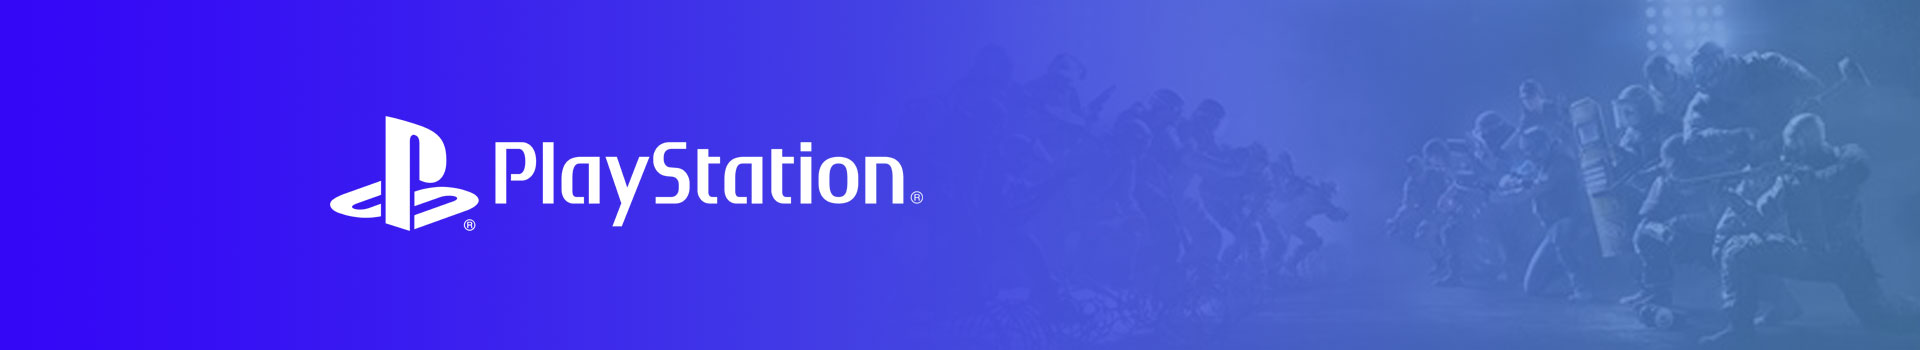
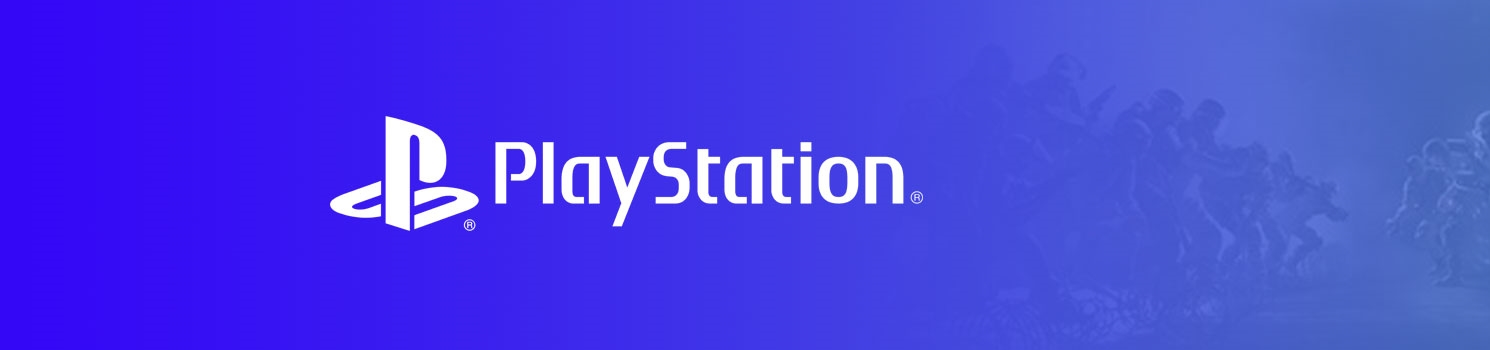
Fínpússun, bætti "/" á öll urls

diff --git a/app/templates/CC/index.html b/app/templates/CC/index.html
@@ -10,13 +10,13 @@
             </ol>
             <div class="carousel-inner">
                 <div class="carousel-item active">
-                    <img src="{% static 'images/frontPageBanner.jpg' %}" class="d-block w-100" alt="Front page bannner first slide">
+                    <img src="{% static 'images/frontPageBanner.jpg' %}" class="d-block w-100 fp-banner" alt="Front page bannner first slide">
                 </div>
                 <div class="carousel-item">
-                    <img src="{% static 'images/frontPageBanner.jpg' %}" class="d-block w-100" alt="Front page bannner second slide">
+                    <img src="{% static 'images/atari_banner.jpg' %}" class="d-block w-100 fp-banner" alt="Front page bannner second slide">
                 </div>
                 <div class="carousel-item">
-                    <img src="{% static 'images/frontPageBanner.jpg' %}" class="d-block w-100" alt="Front page bannner third slide">
+                    <img src="{% static 'images/xbox.jpg' %}" class="d-block w-100 fp-banner" alt="Front page bannner third slide">
                 </div>
             </div>
             <a class="carousel-control-prev carousel-control-btn" href="#frontPageBanner" role="button" data-slide="prev">

diff --git a/app/templates/staff/view_all_products.html b/app/templates/staff/view_all_products.html
@@ -15,7 +15,7 @@
         {% for product in products %}
             <div class="row border-bottom border-dark">
                 <img class="col-2 staff_product_img" src="{{ product.image.first.relative_path }}"/>
-                <p class="col-4 border-left border-dark mb-0 py-3">{{ product.name }}</p>
+                <p class="col-4 border-left border-dark mb-0 py-3 text-truncate text-nowrap">{{ product.name }}</p>
                 <p class="col-3 border-left border-dark mb-0 py-3">{{ product.price }} kr</p>
                 <p class="col-2 border-left border-dark mb-0 py-3">{{ product.quantity }}</p>
                 <a class="col-1 border-left border-dark text-dark" href="{%url 'update_product' product.id %}"><span class="fas fa-pencil-alt my-4 mx-md-4"></span></a>

diff --git a/app/static/js/productScript.js b/app/static/js/productScript.js
@@ -21,16 +21,14 @@ $(document).ready(function(){
         // Stop acting like a button
         e.preventDefault();
         let quantity = parseInt($('#quantity').val());
-        // If is not undefined
 
-        // Increment
-        if(quantity>0){
+        if(quantity>1){
         $('#quantity').val(quantity - 1);
         }
     });
      $('')
 
-    $('#addCart').click(function(e){
+    $('#addCart').click(function(e){ //makes the add to cart button add the right product to the cart with right quantity
         let quantity = $('#quantity').val();
         let custom = $(this).attr("custom-link") + "&quantity=" + quantity
         $('#addCart').attr("href", custom);

diff --git a/app/templates/product_list/prod_list.html b/app/templates/product_list/prod_list.html
@@ -33,7 +33,7 @@
                     {% for product in prod_list %}
                         <a class="col-md-4 col-lg-3 col-6 rounded text-center" href="/vara/{{ product.URL_keyword }}">
                             <img alt="product photo" class="img-responsive my-3" src="{{ product.image.first.relative_path }}"/>
-                            <h3>{{ product.name }}</h3>
+                            <h3 class="text-truncate text-nowrap">{{ product.name }}</h3>
                             <h4 class="mb-3">{{ product.total }} kr</h4>
                         </a>
                     {% endfor %}

diff --git a/app/templates/product_list/sidebar.html b/app/templates/product_list/sidebar.html
@@ -1,5 +1,5 @@
 <div class="container-fluid text-left border rounded yellow-background">
-    <h4 class="pt-2"><u>Filter</u></h4>
+    <h4 class="pt-2"><u>{{ filter }}</u></h4>
     <div id="accordion" class="pb-3">
         {% with categories=categories %}
             {% include 'product_list/child.html' %}

diff --git a/app/static/css/main.css b/app/static/css/main.css
@@ -295,3 +295,8 @@ input[type=submit]:hover  {
 #addCart{
     cursor: pointer !important;
 }
+
+.fp-banner{
+    height: 350px;
+    width:1490px;
+}

diff --git a/app/product_list/views.py b/app/product_list/views.py
@@ -6,17 +6,17 @@ from user.models import SearchHistory
 
 def search(request):
     org_query = request.GET.get("leit")
+    if org_query is None:
+        return redirect("/")
     query = org_query.split(" ")
     all_products = Product.objects.all()
-    prod_list = list(all_products.filter(name__icontains=org_query))
+    prod_list = list(all_products.filter(name__icontains=org_query, status=True))
     for word in query:
-        result = list(all_products.filter(name__icontains=word)) +\
-                 list(all_products.filter(description__icontains=word))
-
+        result = list(all_products.filter(name__icontains=word, status=True)) + \
+                 list(all_products.filter(description__icontains=word, status=True))
         for product in result:
             if product not in prod_list:
                 prod_list.append(product)
-
     if request.user.is_authenticated:
         s = SearchHistory(user=request.user, search_query=org_query)
         s.save()
@@ -31,14 +31,14 @@ def search(request):
                       "search": True,
                       "query": "'{}'".format(org_query),
                       "categories": category_sidebar,
-                      "sidebars": True
+                      "sidebars": True,
+                      "filter": "Flokkar"
                   })
 
 
 def _get_parent(category, url_string=""):
     if category is None:
         return url_string
-
     return _get_parent(category.parent, url_string) + "/" + category.URL_keyword
 
 
@@ -51,6 +51,9 @@ def _does_cat_exist(category):
 
 
 def _is_complete_url(cat, url):
+    # gets a category and a list of urls
+    # and recursively checks if they are the same
+    # cat acts like a singly linked list, a category only knows its parent (node knows next)
     if not url and cat is None:
         return True
     if not url:
@@ -62,27 +65,32 @@ def _is_complete_url(cat, url):
     return False
 
 
+#_get_sub_categories is a cool function
+# because categories sort of act like a singly linked list( a category only knows its parent)
+# I have to recursively create a list of dictionaries, which has category as key and lists of dictionaries as values
+# [{category_obj: [{sub_category_obj: [{sub_sub_category_obj: []}]}]}]
+# It's a neat way of creating the filter sidebar by using the categories as filters
 def _get_sub_categories(category, all):
     cat_list = list(all.filter(parent=category))
     if not cat_list:
         return []
     temp_list = []
     for sub in cat_list:
-        temp_list.append({sub: _get_sub_categories(sub, all)})
+        if sub.status:
+            temp_list.append({sub: _get_sub_categories(sub, all)})
     return temp_list
 
 
-def get_category_sidebar(all):  # used in search
+def get_category_sidebar(all):  # used in search, serves categories as a sidebar
+    # with each category that has children having a "+" which activates a dropdown
     cat1 = all.get(URL_keyword="leikjatolvur")
     cat2 = all.get(URL_keyword="leikir")
     cat3 = all.get(URL_keyword="aukahlutir")
-
     return {
         cat1: _get_sub_categories(cat1, all),
         cat2: _get_sub_categories(cat2, all),
         cat3: _get_sub_categories(cat3, all)
     }
-
 
 
 def category(request, hierarchy):  # the "hierarchy" parameter needs to be there even though it is not used.
@@ -92,16 +100,17 @@ def category(request, hierarchy):  # the "hierarchy" parameter needs to be there
 
     last_url = categories[-1]
     all = Category.objects.all()
-    cat = all.get(URL_keyword=last_url)
+    try:
+        cat = all.get(URL_keyword=last_url)
+    except:
+        raise Http404
 
     if not cat.status:  # if the category is disabled
-        return render(request, "404.html")
+        raise Http404
 
     if _is_complete_url(cat, categories):
-
         elder = get_object_or_404(Category, URL_keyword=categories[0])
         elder_subs = {}
-
         for sub_cat in _get_sub_categories(elder, all):
             for sub_cat_name, children in sub_cat.items():
                 elder_subs[sub_cat_name] = children
@@ -110,6 +119,8 @@ def category(request, hierarchy):  # the "hierarchy" parameter needs to be there
         order_no = request.GET.get("rodun")
         if order_no:
             order = ""
+            # this is for getting the order by correct
+            # "name" orders by name ascending, "-name" orders by name descending
             if order_no == "1":
                 order = "name"
             elif order_no == "2":
@@ -118,11 +129,9 @@ def category(request, hierarchy):  # the "hierarchy" parameter needs to be there
                 order = "-total"
             elif order_no == "4":
                 order = "total"
-
-            the_list = list(Product.objects.filter(category=cat).order_by(order))
+            the_list = list(Product.objects.filter(category=cat, status=True).order_by(order))
         else:
-            the_list = list(Product.objects.filter(category=cat).order_by("total"))
-
+            the_list = list(Product.objects.filter(category=cat, status=True).order_by("total"))
         return render(request,
                       "product_list/prod_list.html",
                       context={
@@ -130,7 +139,8 @@ def category(request, hierarchy):  # the "hierarchy" parameter needs to be there
                           "prod_list": the_list,
                           "categories": elder_subs,
                           "parent": "",
-                          "sidebars": True
+                          "sidebars": True,
+                          "filter": "Filter"
                       })
     else:
         if _does_cat_exist(last_url):

diff --git a/app/staff/urls.py b/app/staff/urls.py
@@ -4,20 +4,20 @@ from . import views
 
 urlpatterns = [
     path("", views.login_staff_view, name="login_staff"),
-    path("logout", LogoutView.as_view(next_page="login_staff"), name="logout_staff"),
-    path("create-product", views.create_product, name="create_product"),
-    path("delete-product/<str:slug>", views.delete_product, name="delete_product"),
-    path("products", views.products, name="view_all_products"),
-    path("update-product/<str:slug>", views.update_product, name="update_product"),
-    path("categories", views.categories, name="view_all_categories"),
-    path("create-category", views.create_category, name="create_category"),
-    path("update-category/<str:slug>", views.update_category, name="update_category"),
-    path("view-staff", views.view_staff, name="view_all_staff"),
-    path("register-staff", views.register_staff, name="register_staff"),
-    path("update-staff/<str:slug>", views.update_staff, name="update_staff"),
-    path("view-customers", views.view_customers, name="view_all_customers"),
-    path("register-customers", views.register_customer, name="register_customer"),
-    path("update-customer/<str:slug>", views.update_customer, name="update_customer"),
-    path("view-orders", views.view_all_orders, name="view_all_orders"),
-    path("view-order/<str:slug>", views.view_order, name="view_order")
+    path("logout/", LogoutView.as_view(next_page="login_staff"), name="logout_staff"),
+    path("create-product/", views.create_product, name="create_product"),
+    path("delete-product/<str:slug>/", views.delete_product, name="delete_product"),
+    path("products/", views.products, name="view_all_products"),
+    path("update-product/<str:slug>/", views.update_product, name="update_product"),
+    path("categories/", views.categories, name="view_all_categories"),
+    path("create-category/", views.create_category, name="create_category"),
+    path("update-category/<str:slug>/", views.update_category, name="update_category"),
+    path("view-staff/", views.view_staff, name="view_all_staff"),
+    path("register-staff/", views.register_staff, name="register_staff"),
+    path("update-staff/<str:slug>/", views.update_staff, name="update_staff"),
+    path("view-customers/", views.view_customers, name="view_all_customers"),
+    path("register-customers/", views.register_customer, name="register_customer"),
+    path("update-customer/<str:slug>/", views.update_customer, name="update_customer"),
+    path("view-orders/", views.view_all_orders, name="view_all_orders"),
+    path("view-order/<str:slug>/", views.view_order, name="view_order")
 ]

diff --git a/app/CC/models.py b/app/CC/models.py
@@ -2,7 +2,10 @@ from django.db import models
 from user.models import profile_info
 
 
-class URL:
+class URL:  # this class exists to make sure that all category and product urls are unique
+    # example: if a product is created with the name "Playstation-game" and a product already exists with that name
+    # the product will get the URL_keyword/slug playstation-game-1, if that already exists then it will get "playstation-game-2"
+    # there also cannot be a category and product with the same slug
     def __init__(self):
         self.replace_arr = [('á', 'a'), ('ð', 'd'), ('ö', 'o'), ('ó', 'o'), ('í', 'i'), ('ý', 'y'), ('ó', 'o'),
                             ('æ', 'ae'), ('ø', 'o'), ('ú', 'u'), ('þ', 'th'), ('é', 'e')]
@@ -126,10 +129,10 @@ class Product(models.Model, URL):
     def __str__(self):
         return self.name
 
-    def initialize(self):
+    def initialize(self):  # checks if the url is unique, if not, fix it
         self.check_url()
-        self.calculate_total()
-        self.save()
+        self.calculate_total()  # calculates the total from price and discount
+        self.save()  # saves product to database
 
 
 class Cart(models.Model):

diff --git a/app/product_list/urls.py b/app/product_list/urls.py
@@ -3,7 +3,7 @@ from django.conf.urls import url
 from . import views
 
 urlpatterns = [
-    path("leit", views.search, name="leit"),
+    path("leit/", views.search, name="leit"),
     url(r'^flokkur/(?P<hierarchy>.+)/', views.category, name="category"),
 ]
 

diff --git a/app/app/settings.py b/app/app/settings.py
@@ -42,7 +42,8 @@ INSTALLED_APPS = [
     'user.apps.UserConfig',
     'product.apps.ProductConfig',
     'product_list.apps.ProductListConfig',
-    'staff.apps.StaffConfig'
+    'staff.apps.StaffConfig',
+    'cart.apps.CartConfig'
 ]
 
 MIDDLEWARE = [

diff --git a/app/product/urls.py b/app/product/urls.py
@@ -2,5 +2,5 @@ from django.urls import path
 from . import views
 
 urlpatterns = [
-    path('<prod_url>', views.index, name="product-index"),
+    path('<prod_url>/', views.index, name="product-index"),
 ]
